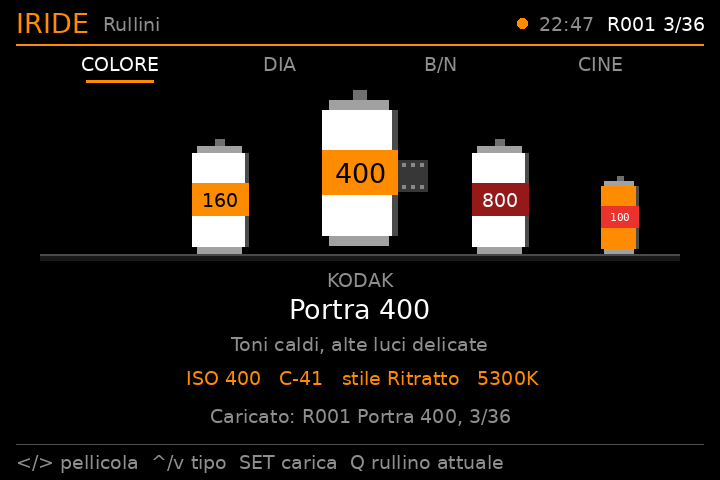
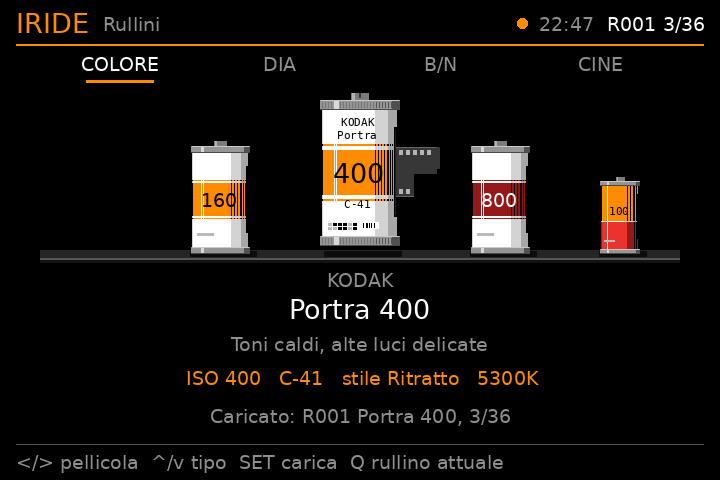
Iride FW 0.5: rullini ridisegnati con tutti i dettagli
Perno, coperchi metallici zigrinati, cilindro ombreggiato con i toni
della tavolozza Canon, fessura di velluto, codice DX e codice a barre,
tre impaginazioni originali, scaffale con piano e ombre, tema notte.

Claude-Session: https://claude.ai/code/session_018KVw8wWB1hRzQsFEjLK3JQ

Changed region(s): [[0.0611, 0.1875, 0.9472, 0.5625]]

diff --git a/simulator/preview.c b/simulator/preview.c
@@ -473,6 +473,7 @@ int main(void)
     P.nd_base = 80; P.nd_idx = 7; sel[SCR_ND] = 3; screenshot(SCR_ND, "12_filtri_nd");
     sel[SCR_MOTION] = 0; screenshot(SCR_MOTION, "13_movimento");
     shelf_enter(); screenshot(SCR_SHELF, "14_rullini");
+    { int th = opt_theme; opt_theme = 1; screenshot(SCR_SHELF, "14c_rullini_notte"); opt_theme = th; }
     conf_mode = CONF_LOAD; load_exp = 36; load_push = 1; sel[SCR_CONFIRM] = 1; screenshot(SCR_CONFIRM, "15_carica");
     { int rl = P.roll_loaded; P.roll_loaded = 0; pic_quality = PICQ_RAW; conf_mode = CONF_LOAD; screenshot(SCR_CONFIRM, "15b_carica_solo_raw");
       P.roll_loaded = 1; P.roll_paused = 0; screenshot(SCR_SHELF, "14b_scaffale_solo_raw"); P.roll_loaded = rl; pic_quality = PICQ_RAW_JPG_LARGE_FINE; }
@@ -495,6 +496,26 @@ int main(void)
 
     { int t0 = clock_ms; splash(); anim_rewind(&films[1], 12); frame_show(1); frame_show(-1);
       CHECK(clock_ms - t0 < 5000, "splash, riavvolgimento e transizioni finiscono da soli (%d ms simulati)", clock_ms - t0); }
+
+    /* ---------- tavola dei 16 rullini (due schermate da 8) */
+    for (int page = 0; page < 2; page++)
+    {
+        theme_apply();
+        frame_begin();
+        fill(C_BG, 0, 0, SCR_W, SCR_H);
+        for (int i = 0; i < 8; i++)
+        {
+            int fi = page * 8 + i;
+            int cx = 46 + i * 89;
+            draw_canister(&films[fi], cx, 40, 100, 0);
+            draw_canister(&films[fi], cx, 250, 60, 0);
+            txt_c(FONT_SMALL, C_DIM, cx, 340, films[fi].name);
+        }
+        draw_canister(&films[page * 8 + 2], 200, 360, 80, 30);
+        draw_canister(&films[page * 8 + 5], 480, 360, 80, 30);
+        frame_show(0);
+        shot(page ? "rullini_2" : "rullini_1");
+    }
 
     /* ---------- tutte le schermate in entrambi i temi, con tutti i tasti: nessun crash */
     int keys[] = { MODULE_KEY_PRESS_UP, MODULE_KEY_PRESS_DOWN, MODULE_KEY_PRESS_LEFT, MODULE_KEY_PRESS_RIGHT, MODULE_KEY_WHEEL_LEFT, MODULE_KEY_WHEEL_RIGHT,

diff --git a/module/iride/iride.c b/module/iride/iride.c
@@ -35,7 +35,7 @@
 #include <lvinfo.h>
 #include <math.h>
 
-#define IRIDE_VERSION "0.4"
+#define IRIDE_VERSION "0.5"
 
 /* ------------------------------------------------------------------ compatibilita' API */
 

diff --git a/CHANGELOG.md b/CHANGELOG.md
@@ -1,5 +1,11 @@
 # Novità
 
+## 0.5 – 1 novembre 2026
+- Rullini ridisegnati con tanti dettagli: perno della bobina, coperchi metallici zigrinati con riflesso, cilindro ombreggiato coi toni della tavolozza Canon, fessura di velluto, marca, nome, processo e ISO, filetti, codice DX e codice a barre
+- Tre impaginazioni originali (fascia, diviso, righe); nessun logo o confezione reale riprodotti
+- Linguetta perforata col taglio a mezza altezza; scaffale con piano in prospettiva e ombre di contatto
+- Tema notte dedicato ai rullini (rosso, rosso scuro, nero)
+
 ## 0.4 – 1 novembre 2026
 - Rullini: nuove animazioni di caricamento (rullino nel vano, linguetta che si aggancia alla bobina, pellicola perforata che avanza, sportello che si chiude, contapose S → 0 → 1) e di riavvolgimento (manovella, bobina che si svuota, rullino che esce)
 - Scaffale: i rullini poggiano su una mensola, quello scelto si solleva e mostra la linguetta

diff --git a/README.md b/README.md
@@ -30,6 +30,12 @@ Un'interfaccia a tutto schermo, animata, con menu dedicati ad **astrofotografia*
 
 La 6D riceve il tasto luce del display superiore come evento `0x20`, e Magic Lantern lo usa nella riproduzione. Non è ancora confermato che lo invii anche in modalità di scatto. **Opzioni → Diagnostica tasti** mostra gli ultimi tasti ricevuti e li salva in `ML/LOGS/IRIDEKEY.TXT`.
 
+### Rullini
+
+<p align="center"><img src="docs/screenshots/rullini_tutti.png" width="720" alt="I 16 rullini"></p>
+
+Ogni rullino è disegnato in macchina, con grafiche originali: perno, coperchi zigrinati, cilindro ombreggiato, fessura di velluto, codice DX e codice a barre.
+
 ### Rullini e RAW
 
 Il look della pellicola la 6D lo applica solo al **JPEG**: con la qualità in solo RAW, LightCraft e Lightroom mostrano un attimo l'anteprima con il look e poi il RAW neutro.
